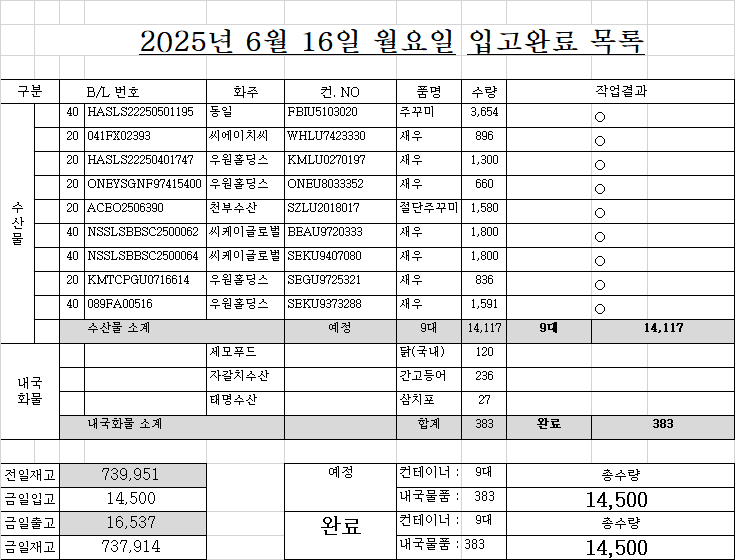
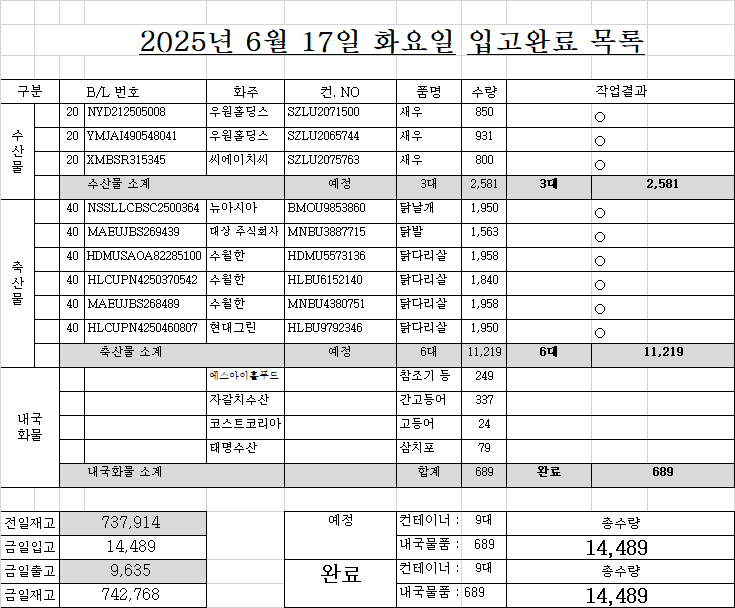
DSFSDFSDF

Changed region(s): [[0.0, 0.0304, 1.0, 1.0], [0.0, 0.3946, 0.0299, 0.5161], [0.0299, 0.6679, 0.0599, 0.7286]]

diff --git a/list.html b/list.html
@@ -118,48 +118,42 @@
 </div>
 <!-- ★★★★★★ 따로 빼 놔야한다. 복붙하면 첫칸 비어도 되는데, 여기서는 첫칸비우면 당겨진다. -->
 <!-- ★ 엑셀범위를 브라우저 textarea에 붙여넣으면 첫셀 비어도 제대로 되는데... HTML에 붙여놓은 자료는 처음셀이 비어있으면 당겨짐 -->
-<div class="d-none" id="원본text_리스트1부터w요약열까지">작성	면허	B/LNO.	화주	컨테이너NO.	품명	수량	반입NO.	입항일	구분	도착일	도착시간	구분	운.도VBA	06/16 월 16:59	화찰BL	화찰 선명	화물관리번호	화찰수량	화찰중량	화찰입항	리스트시트기준열	
-1	○	NYD212505008	우원홀딩스	SZLU2071500	새우	850 		6/12	1			20 			NYD212505008	INTERASIA TRIBUTE	25IALKIT40I-1003-0001	850 	10,370.00 	2025.06.15	06/16 월 16:59	
-1	○	YMJAI490548041	우원홀딩스	SZLU2065744	새우	931 		6/14	1			20 			YMJAI490548041	INTERASIA TRIBUTE	25IALKIT40I-4017-	931 	7,075.60 	2025.06.15	조회정보	
-1	○	XMBSR315345	씨에이치씨	SZLU2075763	새우	800 		6/15	1			20 			XMBSR315345	TS SHENZHEN	25TSLUB081I-1033-0001	800 	9,400.00 	2025.06.15	적재	57 
-1		NSSLLCBSC2500364	뉴아시아	BMOU9853860	닭날개	1,950 	BPT신선대	6/10	2				BPT신선대			STARSHIP URSA					4,617 	3줄
-1		MAEUJBS269439	대상 주식회사	MNBU3887715	닭발	1,563 	PNC	6/15	2				PNC			GOOD PROSPECT					6,156 	4줄
-1		HLCUPN4250459480	마이푸드	HLBU9063600	닭다리살	1,948 	PNIT	6/15	2				PNIT			SEASPAN BELIEF					7,695 	5줄
-1	○	HDMUSAOA82285100	수월한	HDMU5573136	닭다리살	1,958 		6/15	2						HDMUSAOA82285100	HYUNDAI PLATINUM	25HDMUA295I-0108-	1,958 	24,492.58 	2025.06.15	9,234 	6줄
-1	○	HLCUPN4250370542	수월한	HLBU6152140	닭다리살	1,840 		6/15	2						HLCUPN4250370542	GOOD PROSPECT	25MAEU0409I-7296-	1,840 	23,101.85 	2025.06.15		
-1	○	MAEUJBS268489	수월한	MNBU4380751	닭다리살	1,958 		6/15	2						MAEUJBS268489	GOOD PROSPECT	25MAEU0409I-1205-	1,958 	24,492.58 	2025.06.15	출고/입고 4주간	
-1		HDMUSAOA10868700	아스트로스	TCLU1144438	닭다리살	1,875 	HPNT	6/15	2				HPNT			HYUNDAI PLATINUM					1일 7/5	5일줄
-1	○	HLCUPN4250460807	현대그린	HLBU9792346	닭다리살	1,950 	PNC	6/15	2				PNC		HLCUPN4250460807	GOOD PROSPECT	25MAEU0409I-7297-	1,950 	24,219.00 	2025.06.15	13,380 	43.5
-2	○	MAEUJBS269696	이마트	MMAU1218120	닭다리살	1,939 	면허	6/15	2						MAEUJBS269696	GOOD PROSPECT	25MAEU0409I-1229-	1,939 	24,213.42 	2025.06.15	17,591 	57.2
-2	○	KMTCDLC1273221	하나교역	FBIU5374280	바지락살	2,700 		6/16	1						KMTCDLC1273221	PEGASUS PETA	25PCSLF016I-2007-0001	2,700 	21,920.00 	2025.06.16	내국제외	
-		341510032908	우원홀딩스	TSTU8201680	새우	673 		6/14	1			20 									구분	대수
-		ONEYLIMF06948600	삼영수산	IKSU2507500	오징어	1,177 	HJNC	6/15	1				HJNC			YM MODESTY					수산	22
-		ONEYLIMF06948600	삼영수산	IKSU2511877	오징어	1,180 	HJNC	6/15	1				HJNC			YM MODESTY					축산	19
-		HDMUSAOA82617300	아스트로스	TEMU9692374	닭발	1,500 	HPNT	6/15	2				HPNT			HYUNDAI PLATINUM					합계	41
-		ONEYNOSF00388500	한외해운	CAIU5677568	고등어필렛	1,845 		6/15	1													
-		SNKO190250503892	대상 주식회사	FBIU5369509	닭다리살	1,950 		6/16	2												화주별 요약	
-		SNKO190250502481	대상 주식회사	FSCU5909779	닭다리살	1,893 		6/17	2												화주	대수
-		HDMUSGNA98839802	우원홀딩스	TEXU9033344	새우	899 		6/17	1			20 									우원홀딩스	8
-		DLPMC00087298	삼영수산	SEKU9072242	오징어	1,225 	?????(ANL).BNCT	6/18	1	ANL			?????(ANL).BNCT			CMA CGM THAMES					삼영수산	7
-		COSU6414951979	수월한	FBIU5023558	닭다리살	1,960 		6/19	2												수월한	6
-		KMTCSGN5829279	우원홀딩스	BMOU8200270	새우	1,000 		6/19	1			20 									대상 주식회사	4
-		NYD212506007	우원홀딩스	TEXU9032250	새우	900 		6/19	1			20 									아스트로스	3
-		HLCUIT1250409353	수월한	HLBU9393599	닭다리살	1,958 	PNIT	6/20	2				PNIT			IQUIQUE EXPRESS					세현	3
-		NYD212506008	우원홀딩스	SZLU2014705	새우	950 		6/20	1			20 									대성무역	2
-		NYD212506009	우원홀딩스	KKTU6077614	새우	850 		6/20	1			20 									씨에이치씨	1
-		COSU6453343580	대성무역	FBIU5408143	닭다리살	1,960 	BNCT	6/22	2				BNCT			COSCO SHIPPING JASMINE					뉴아시아	1
-		COSU6453343500	아스트로스	FSCU5761465	닭다리살	1,960 	BNCT	6/22	2				BNCT			COSCO SHIPPING JASMINE					마이푸드	1
-		MAEU254359883	해솔무역	MNBU3397934	조기	2,300 	PNC	6/24	1				PNC			MAERSK EL BANCO					현대그린	1
-		LMM0528078	삼영수산	TEMU9217501	오징어	1,100 		7/4	1												이마트	1
-		COSU6453343970	대성무역	SZLU9213859	닭다리살	1,960 	BNCT	7/5	2				BNCT			COSCO FAITH					하나교역	1
-		LMM0526832	삼영수산	CGMU8030529	오징어	1,100 		7/5	1							CMA CGM APOLLON					한외해운	1
-		MEDUE8767026	대상 주식회사	SZLU9486160	닭다리살	1,980 		미정	2							CAPE ARTEMISIO					해솔무역	1
-		MEDUP3893740	삼영수산	MSDU9009190	오징어	1,120 		미정	1							MSC GABON					합계	41
-		MEDUP3893740	삼영수산	FSCU5800664	오징어	1,118 		미정	1							MSC GABON						
-		MEDUM0579638	세현	MEDU9702192	오징어	1,950 		미정	1							MSC CHARLESTON						
-		MEDUM0579638	세현	SEGU9287966	오징어	1,979 		미정	1							MSC CHARLESTON						
-		MEDUM0579638	세현	TCLU1101586	오징어	1,994 		미정	1							MSC CHARLESTON						
-		MEDUHI247915	수월한	TRIU8580680	닭다리살	1,858 		미정	2							CAPE ARTEMISIO						
+<div class="d-none" id="원본text_리스트1부터w요약열까지">작성	면허	B/LNO.	화주	컨테이너NO.	품명	수량	반입NO.	입항일	구분	도착일	도착시간	구분	운.도VBA	06/17 화 16:28	화찰BL	화찰 선명	화물관리번호	화찰수량	화찰중량	화찰입항	리스트시트기준열	
+1	○	KMTCDLC1273221	하나교역	FBIU5374280	바지락살	2,700 	EZ북항.BPT신선대	6/16	1	6/17	13:34		EZ북항.BPT신선대		KMTCDLC1273221	PEGASUS PETA	25PCSLF016I-2007-0001	2,700 	21,920.00 	2025.06.16	06/17 화 16:28	
+1	○	MEDUM0579638	세현	MEDU9702192	오징어	1,950 	천일정기화물.PNC	6/17	1				천일정기화물.PNC		MEDUM0579638	MSC AMELIA	25MSCU4216I-0306-	5,923 	74,490.00 	2025.06.17	조회정보	
+1		MEDUM0579638	세현	TCLU1101586	오징어	1,994 	천일정기화물.PNC	6/17	1				천일정기화물.PNC			MSC AMELIA					적재	57 
+1		MEDUM0579638	세현	SEGU9287966	오징어	1,979 	천일정기화물.PNC	6/18	1				천일정기화물.PNC			MSC AMELIA					4,617 	3줄
+1	○	HDMUSAOA10868700	아스트로스	TCLU1144438	닭다리살	1,875 	챔프(EZ신항).HPNT	6/15	2	6/17	15:13		챔프(EZ신항).HPNT		HDMUSAOA10868700	HYUNDAI PLATINUM	25HDMUA295I-0010-	1,875 	24,142.50 	2025.06.15	6,156 	4줄
+1	○	HDMUSAOA82617300	아스트로스	TEMU9692374	닭발	1,500 	챔프(EZ신항).HPNT	6/15	2				챔프(EZ신항).HPNT		HDMUSAOA82617300	HYUNDAI PLATINUM	25HDMUA295I-0009-	1,500 	23,602.50 	2025.06.15	7,695 	5줄
+1	○	MAEUJBS269696	이마트	MMAU1218120	닭다리살	1,939 	세방(SS신항).PNC	6/15	2				세방(SS신항).PNC		MAEUJBS269696	GOOD PROSPECT	25MAEU0409I-1229-	1,939 	24,213.42 	2025.06.15	9,234 	6줄
+1	○	SNKO190250502481	대상 주식회사	FSCU5909779	닭다리살	1,893 	챔프(EZ북항).BPT신선대	6/16	2				챔프(EZ북항).BPT신선대		SNKO190250502481	HEUNG-A HOCHIMINH	25HASL1085I-6048-	1,893 	24,510.56 	2025.06.16		
+1	○	SNKO190250503892	대상 주식회사	FBIU5369509	닭다리살	1,950 	챔프(EZ북항).BPT신선대	6/16	2				챔프(EZ북항).BPT신선대		SNKO190250503892	TIANJIN VOYAGER	25HASL1086I-0075-	1,950 	24,765.00 	2025.06.16	출고/입고 4주간	
+1	○	HDMUSAOA94341808	대성무역	BMOU9799327	닭다리	1,958 	챔프(EZ신항).HJNC	6/16	2				챔프(EZ신항).HJNC		HDMUSAOA94341808	HYUNDAI SUPREME	25HDMUA290I-0008-	1,958 	24,492.56 	2025.06.16	1일 7/5	5일줄
+1	○	HLCUPN4250459480	마이푸드	HLBU9063600	닭다리살	1,948 	민성로직스.PNIT	6/16	2	6/17	15:10		민성로직스.PNIT		HLCUPN4250459480	SEASPAN BELIEF	25ONEY0693I-6527-	1,948 	24,361.69 	2025.06.16	13,575 	44.1
+2	○	HDMUSGNA98839802	우원홀딩스	TEXU9033344	새우	899 	HPNT	6/17	1			20 	HPNT		HDMUSGNA98839802	ONE FOREVER	25ONEY0695I-7136-	899 	6,711.60 	2025.06.17	17,583 	57.1
+		341510032908	우원홀딩스	TSTU8201680	새우	673 	BPT감만	6/16	1			20 	BPT감만			INTERASIA TRIBUTE					내국제외	
+		COSU6414951979	수월한	FBIU5023558	닭다리살	1,960 	HJNC	6/17	2				HJNC			KMTC CHENNAI					구분	대수
+		DLPMC00087298	삼영수산	SEKU9072242	오징어	1,225 	?????(ANL).BNCT	6/18	1	ANL			?????(ANL).BNCT			CMA CGM THAMES					수산	20
+		ONEYLIMF06948600	삼영수산	IKSU2507500	오징어	1,177 	HJNC	6/19	1				HJNC			YM MODESTY					축산	15
+		ONEYLIMF06948600	삼영수산	IKSU2511877	오징어	1,180 	HJNC	6/19	1				HJNC			YM MODESTY					합계	35
+		ONEYNOSF00388500	한외해운	CAIU5677568	고등어필렛	1,845 	HPNT	6/19	1				HPNT			HMM GARAM						
+		MEDUP3893740	삼영수산	MSDU9009190	오징어	1,120 	PNIT	6/20	1				PNIT			MSC EMMA					화주별 요약	
+		MEDUP3893740	삼영수산	FSCU5800664	오징어	1,118 	PNIT	6/20	1				PNIT			MSC EMMA					화주	대수
+		NYD212506007	우원홀딩스	TEXU9032250	새우	900 	?????(HMM).HPNT	6/20	1	HMM		20 	?????(HMM).HPNT			HMM HARMONY					삼영수산	7
+		NYD212506008	우원홀딩스	SZLU2014705	새우	950 	?????(ONE).BPT신선대	6/20	1	ONE		20 	?????(ONE).BPT신선대			KMTC DALIAN					우원홀딩스	6
+		NYD212506009	우원홀딩스	KKTU6077614	새우	850 	?????(ONE).BPT신선대	6/20	1	ONE		20 	?????(ONE).BPT신선대			KMTC DALIAN					아스트로스	4
+		MEDUE8767026	대상 주식회사	SZLU9486160	닭다리살	1,980 	BCT	6/21	2				BCT			MSC UNITED VIII					세현	3
+		MEDUHI247915	수월한	TRIU8580680	닭다리살	1,858 	BCT	6/21	2				BCT			MSC UNITED VIII					대상 주식회사	3
+		KMTCSGN5829279	우원홀딩스	BMOU8200270	새우	1,000 	허치슨감만	6/21	1			20 	허치슨감만			STARSHIP JUPITER					대성무역	3
+		COSU6453343580	대성무역	FBIU5408143	닭다리살	1,960 	BNCT	6/22	2				BNCT			COSCO SHIPPING JASMINE					수월한	3
+		COSU6415209398	아스트로스	OERU4168898		닭(브라질)	BNCT	6/22	2				BNCT			COSCO SHIPPING JASMINE					하나교역	1
+		COSU6453343500	아스트로스	FSCU5761465	닭다리살	1,960 	BNCT	6/22	2				BNCT			COSCO SHIPPING JASMINE					이마트	1
+		HLCUIT1250409353	수월한	HLBU9393599	닭다리살	1,958 	PNIT	6/23	2				PNIT			IQUIQUE EXPRESS					마이푸드	1
+		HASLS21250600844	한국축지	SEKU9003540	갑오징어	550 	BPT신선대	6/23	1			20 	BPT신선대			SAWASDEE XIAMEN					한외해운	1
+		MAEU254359883	해솔무역	MNBU3397934	조기	2,300 	PNC	6/25	1				PNC			MAERSK EL BANCO					한국축지	1
+		COSU6453343970	대성무역	SZLU9213859	닭다리살	1,960 	BNCT	7/5	2				BNCT			COSCO FAITH					해솔무역	1
+		LMM0526832	삼영수산	CGMU8030529	오징어	1,100 		7/5	1							CMA CGM APOLLON					합계	35
+		LMM0528078	삼영수산	TEMU9217501	오징어	1,100 		7/9	1							CMA CGM GANGES						
 </div>
 <div class="d-none" id="원본text_입항관리도크부터도착항우측까지">도크	화주	컨테이너	작업순서	상세내용 참조		운송사	물품		06/05 목 16:15	B/L	도착항	상세내용
 </div>   
